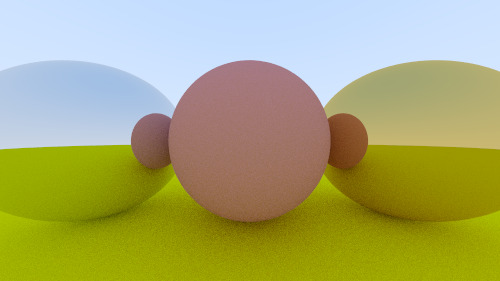
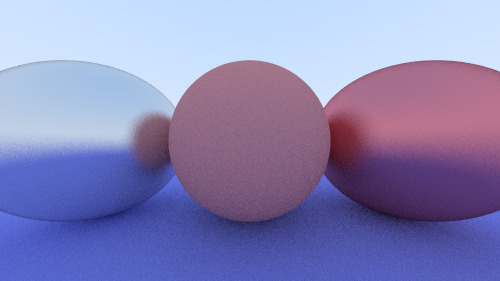
feat: working metal material, began parallelizing the rendering, not fully working yet

diff --git a/main.cpp b/main.cpp
@@ -49,13 +49,17 @@ int main(int argc, char **argv) {
    const int samples_per_pixel 	= 100;
    const int max_depth 		= 50;
 
+#ifdef OMP
+   char *image_content = (char*)calloc(sizeof(char), image_width * image_height);
+#endif
+
    // world attr
    hittable_list world;
 
-   auto material_ground = make_shared<lambertian>(color(0.8, 0.8, 0.0));
-   auto material_center = make_shared<lambertian>(color(0.7, 0.3, 0.3));
-   auto material_left   = make_shared<metal>(color(0.8, 0.8, 0.8));
-   auto material_right  = make_shared<metal>(color(0.8, 0.6, 0.2));
+   shared_ptr<lambertian> material_ground = make_shared<lambertian>(color(0.26, 0.29, 0.81));
+   shared_ptr<lambertian> material_center = make_shared<lambertian>(color(0.7, 0.3, 0.3));
+   shared_ptr<metal> material_left   = make_shared<metal>(color(0.8, 0.8, 0.8), 0.3);
+   shared_ptr<metal> material_right  = make_shared<metal>(color(0.81, 0.26, 0.31), 0.5);
 
    world.add(make_shared<sphere>(point3( 0.0, -100.5, -1.0), 100.0, material_ground));
    world.add(make_shared<sphere>(point3( 0.0,    0.0, -1.0),   0.5, material_center));
@@ -72,27 +76,47 @@ int main(int argc, char **argv) {
       std::cerr << "\nScanlines remaining: " << i  << ' ' << std::flush;
 
 #ifdef OMP
-      omp_set_num_threads(NUM_THREADS);
-#pragma omp parallel for \
-      shared(image_width, image_height, samples_per_pixel, i, world, cam) \
-      schedule(static)
-#endif
-      for (int j = 0; j < image_width; j++) {
-	 color pixel_color(0, 0, 0);
+      // Assign work for thread(s) (chunks)
+      int *chunks = (int*)calloc(sizeof(int), NUM_THREADS);
+      for (int c = 0; c < image_height; c++)
+	 chunks[c % NUM_THREADS] += 1;
 
-	 for (int k = 0; k < samples_per_pixel; k++) {
-	    float u = (float(j) + random_float()) / (image_width - 1);
-	    float v = (float(i) + random_float()) / (image_height - 1);
-	    pixel_color += ray_color(cam.get_ray(u, v), world, max_depth);
-	 }
+      omp_set_num_threads(NUM_THREADS);
+#pragma omp parallel \
+      shared(chunks, image_width, image_height, samples_per_pixel, i, world, cam)
+      {
+	 int id = omp_get_thread_num();
+	 int min = id * chunks[id];
+	 int max = min + chunks[id];
+#pragma omp for schedule(static)
+	 for (int j = min; j < max; j++) {
+#else
+	    for (int j = 0; j < image_width; j++) {
+#endif
+	       color pixel_color(0, 0, 0);
+
+	       for (int k = 0; k < samples_per_pixel; k++) {
+		  float u = (float(j) + random_float()) / (image_width - 1);
+		  float v = (float(i) + random_float()) / (image_height - 1);
+		  pixel_color += ray_color(cam.get_ray(u, v), world, max_depth);
+	       }
 
 #ifdef OMP
-#pragma omp critical
+	       image_content[j * i] = get_pixel(pixel_color, samples_per_pixel);
+#else
+	       write_color(std::cout, pixel_color, samples_per_pixel);
 #endif
-	 write_color(std::cout, pixel_color, samples_per_pixel);
+	    }
+	 }
+#ifdef OMP
+	 free(chunks);
       }
-   }
+      // Write to cout so that we can pipe into the .ppm file
+      // TODO: rewrite to create file directly instead
+      for (int i = 0; i < image_height; i++)
+	 std::cout << image_content[i];
+#endif
 
-   std::cerr << "\nDone.\n";
-   return 0;
-}
+      std::cerr << "\nDone.\n";
+      return 0;
+   }

diff --git a/color.h b/color.h
@@ -3,28 +3,48 @@
 
 #include "tools.h"
 #include "vec3.h"
-#include <iostream>
+#include <cstring>
 
 // recall that color is vec3 type
-inline void write_color(
-    std::ostream &out,
-    color pixel_color,
-    int samples_per_pixel
-    ) {
-  float r = pixel_color.x();
-  float g = pixel_color.y();
-  float b = pixel_color.z();
+inline char get_pixel(color pixel_color, int samples_per_pixel) {
+   float r = pixel_color.x();
+   float g = pixel_color.y();
+   float b = pixel_color.z();
 
-  // Divide the color by the number of samples
-  float scale = 1.0 / samples_per_pixel;
-  r = sqrt(scale * r);
-  g = sqrt(scale * g);
-  b = sqrt(scale * b);
+   // Divide the color by the number of samples
+   float scale = 1.0 / samples_per_pixel;
+   r = sqrt(scale * r);
+   g = sqrt(scale * g);
+   b = sqrt(scale * b);
 
-  // write translated [0, 255] value of each color component
-  out << static_cast<int>(256 * clamp(r, 0.0, 0.999)) << ' '
-    << static_cast<int>(256 * clamp(g, 0.0, 0.999)) << ' '
-    << static_cast<int>(256 * clamp(b, 0.0, 0.999)) << '\n';
+   // write translated [0, 255] value of each color component
+
+   std::string red = std::to_string(static_cast<int>(256 * clamp(r, 0.0, 0.999)));
+   std::string green = std::to_string(static_cast<int>(256 * clamp(g, 0.0, 0.999)));
+   std::string blue = std::to_string(static_cast<int>(256 * clamp(b, 0.0, 0.999)));
+   std::string pixel = red + ' ' + green + ' ' + blue + '\n';
+
+   char *cstr = new char[pixel.length() + 1];
+   std::strcpy(cstr, pixel.c_str());
+
+   return *cstr;
+}
+
+inline void write_color(std::ostream &out, color pixel_color, int samples_per_pixel) {
+   float r = pixel_color.x();
+   float g = pixel_color.y();
+   float b = pixel_color.z();
+
+   // Divide the color by the number of samples
+   float scale = 1.0 / samples_per_pixel;
+   r = sqrt(scale * r);
+   g = sqrt(scale * g);
+   b = sqrt(scale * b);
+
+   // write translated [0, 255] value of each color component
+   out << static_cast<int>(256 * clamp(r, 0.0, 0.999)) << ' '
+      << static_cast<int>(256 * clamp(g, 0.0, 0.999)) << ' '
+      << static_cast<int>(256 * clamp(b, 0.0, 0.999)) << '\n';
 }
 
 #endif

diff --git a/material.h b/material.h
@@ -39,18 +39,19 @@ class lambertian : public material {
 
 class metal : public material {
    public:
-      metal(const color &a) : albedo(a) {}
+      metal(const color &a, float fuzzyness) : albedo(a), fuzz(fuzzyness < 1 ? fuzzyness : 1) {}
 
       virtual bool scatter(
 	    const ray &r_in, const hit_record &rec, color &attenuation, ray &scattered
 	    ) const override {
 	 vec3 reflected = reflect(unit_vector(r_in.direction()), rec.normal);
-	 scattered = ray(rec.p, reflected);
+	 scattered = ray(rec.p, reflected + fuzz * random_in_unit_sphere());
 	 attenuation = albedo;
 	 return (dot(scattered.direction(), rec.normal) > 0);
       }
 
    public:
       color albedo;
+      float fuzz;
 };
 #endif
